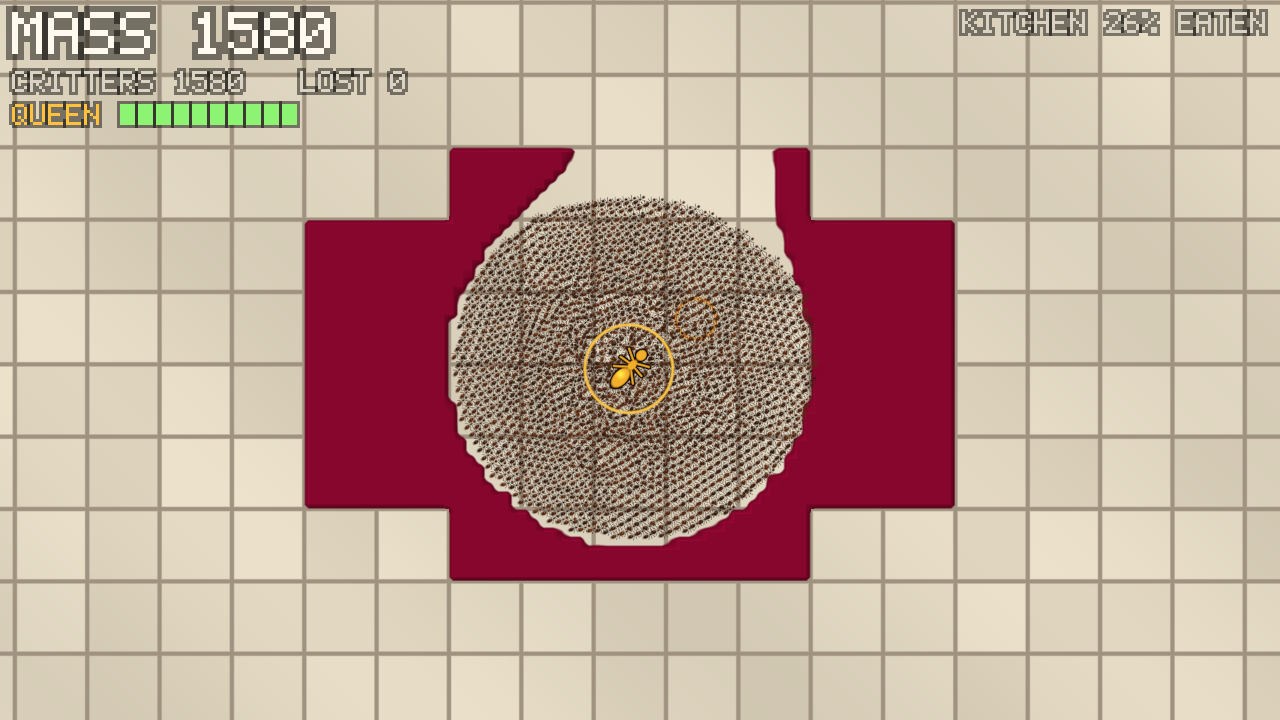
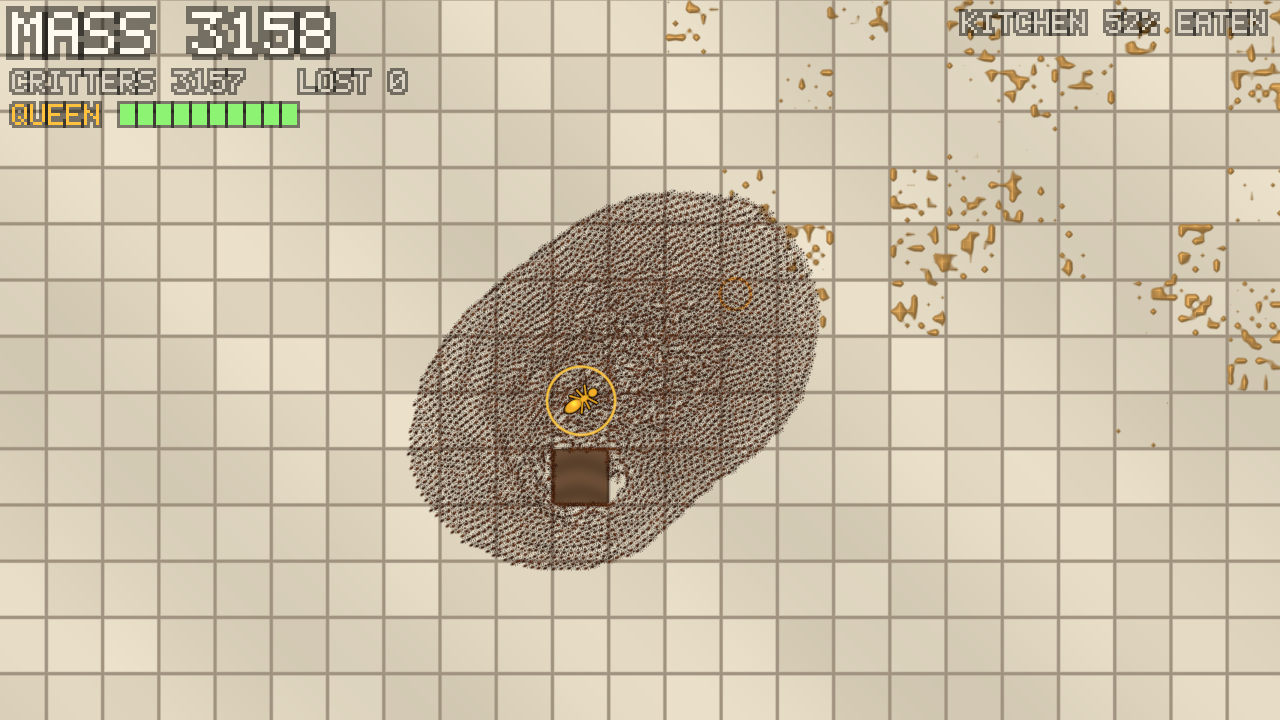
Keep eating solid food on contact, and keep it visible until gone
- A critter that bumps into bread, cereal or cheese bites the cell it hit,
  or the cell ahead along the direction it was trying to go, instead of
  following the post-collision velocity, which had bounced away from the
  food. A swarm pressed against a bread wall now eats ~650 cells in 10 s,
  up from ~30 (new regression test).
- Solid food cells render at full coverage while any food remains, darkening
  as they are gnawed, so partly eaten solids never become invisible
  obstacles.

Found by automated review on the PR.

Claude-Session: https://claude.ai/code/session_01729CUrydeoLGD9Lp2hF45u

diff --git a/tests/gpu_swarm.rs b/tests/gpu_swarm.rs
@@ -243,6 +243,40 @@ fn eating_conserves_food_exactly() {
 }
 
 #[test]
+fn critters_pressed_against_solid_food_keep_eating_through_it() {
+    let Some(gpu) = gpu() else { return };
+    let mut layout = MaterialLayout::empty(bounds());
+    // A thick bread wall spanning the world's height: no way around it.
+    layout.fill_rect(
+        Vec2::new(4.0, -40.0),
+        Vec2::new(16.0, 40.0),
+        Kind::Bread,
+        FULL,
+    );
+    let mut rng = SplitMix64::new(12);
+    let agents = spawn_disk(Vec2::new(-4.0, 0.0), 600, 0.5, &mut rng);
+    let (mut swarm, _material) = swarm_on(&gpu, &layout, &agents, 1_024);
+    let focal = Vec2::new(30.0, 0.0);
+    let eaten_by = |swarm: &Swarm| swarm.read_counters(&gpu).unwrap()[counter::EATEN];
+    for step in 0..300 {
+        swarm.step(&gpu, &frame(focal, step));
+    }
+    // Once the swarm is pressed flat against the wall it must keep eating,
+    // not bounce off and stall.
+    let before = eaten_by(&swarm);
+    for step in 300..900 {
+        swarm.step(&gpu, &frame(focal, step));
+    }
+    let gnawed_cells = (eaten_by(&swarm) - before) as f32 / FULL as f32;
+    assert!(
+        // Biting along the bounced-back velocity managed ~30 here; biting the
+        // cell actually bumped into manages ~650.
+        gnawed_cells > 200.0,
+        "only {gnawed_cells:.1} cells eaten in 10 s against the wall"
+    );
+}
+
+#[test]
 fn critters_never_enter_walls() {
     let Some(gpu) = gpu() else { return };
     let mut layout = MaterialLayout::empty(bounds());

diff --git a/docs/ROADMAP.md b/docs/ROADMAP.md
@@ -53,7 +53,7 @@ Deferred to later steps: gamepad (Step 3), on-screen HUD text (Step 2), and per-
 - **The Queen** (`queen.rs`) follows the main body at 60% speed. Hatchlings appear around her, and nearby critters cut the damage she takes. At zero health she gets a 3-second last stand; then the run is lost and **R** restarts it.
 - **The mop** (`hazard.rs`) is a placeholder hazard that patrols a route, wipes out critters and hurts the Queen.
 - **Rendering**: smooth food blobs that shrink as they're eaten, an overlay layer for the Queen (beacon and health ring) and the mop, and a HUD from a built-in 5x7 bitmap font.
-- **Headless**: a scripted player tours the food, waiting to arrive and leaving once eating dries up. From 10 critters it reaches about 365 in 2 minutes and about 1,570 in 3 (26% of the kitchen eaten).
+- **Headless**: a scripted player tours the food, waiting to arrive and leaving once eating dries up. From 10 critters it reaches about 3,160 in 3 minutes (52% of the kitchen eaten).
 
 Deferred:
 - **Pathfinding.** Critters steer in straight lines, so some get stuck behind obstacles (bread, cupboards) until they eat through. This is now the first item of Step 3.
